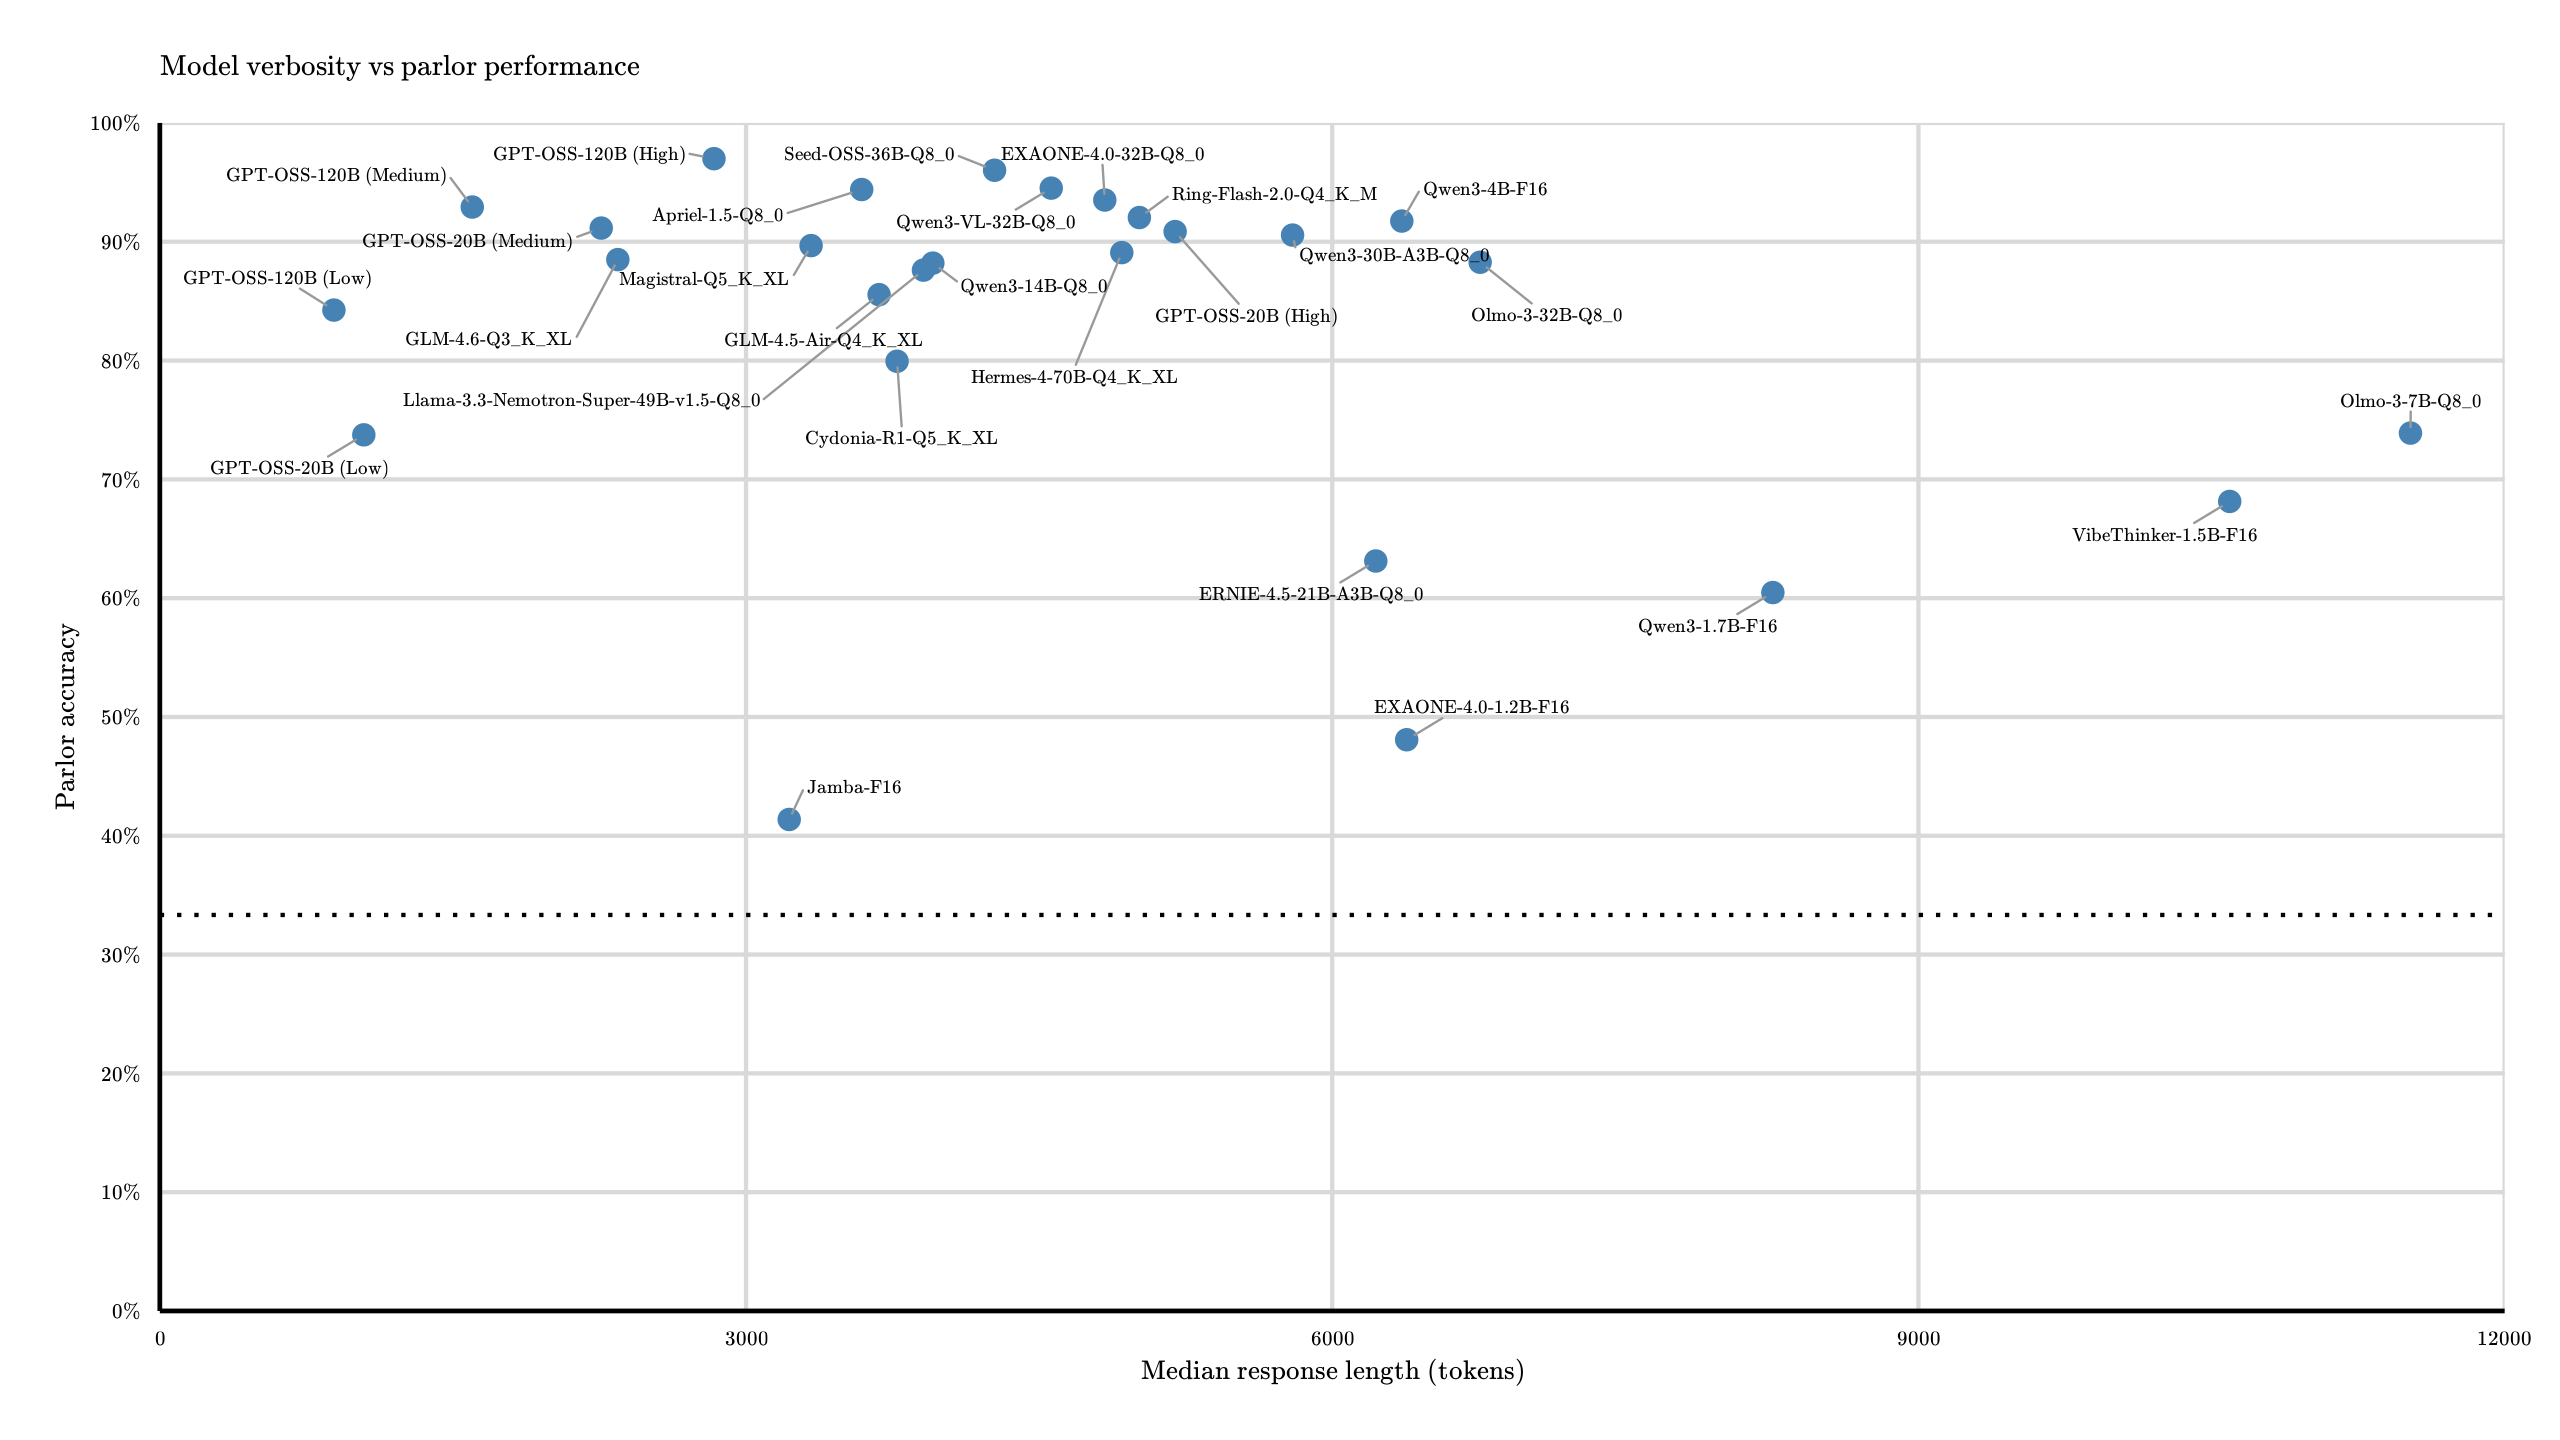
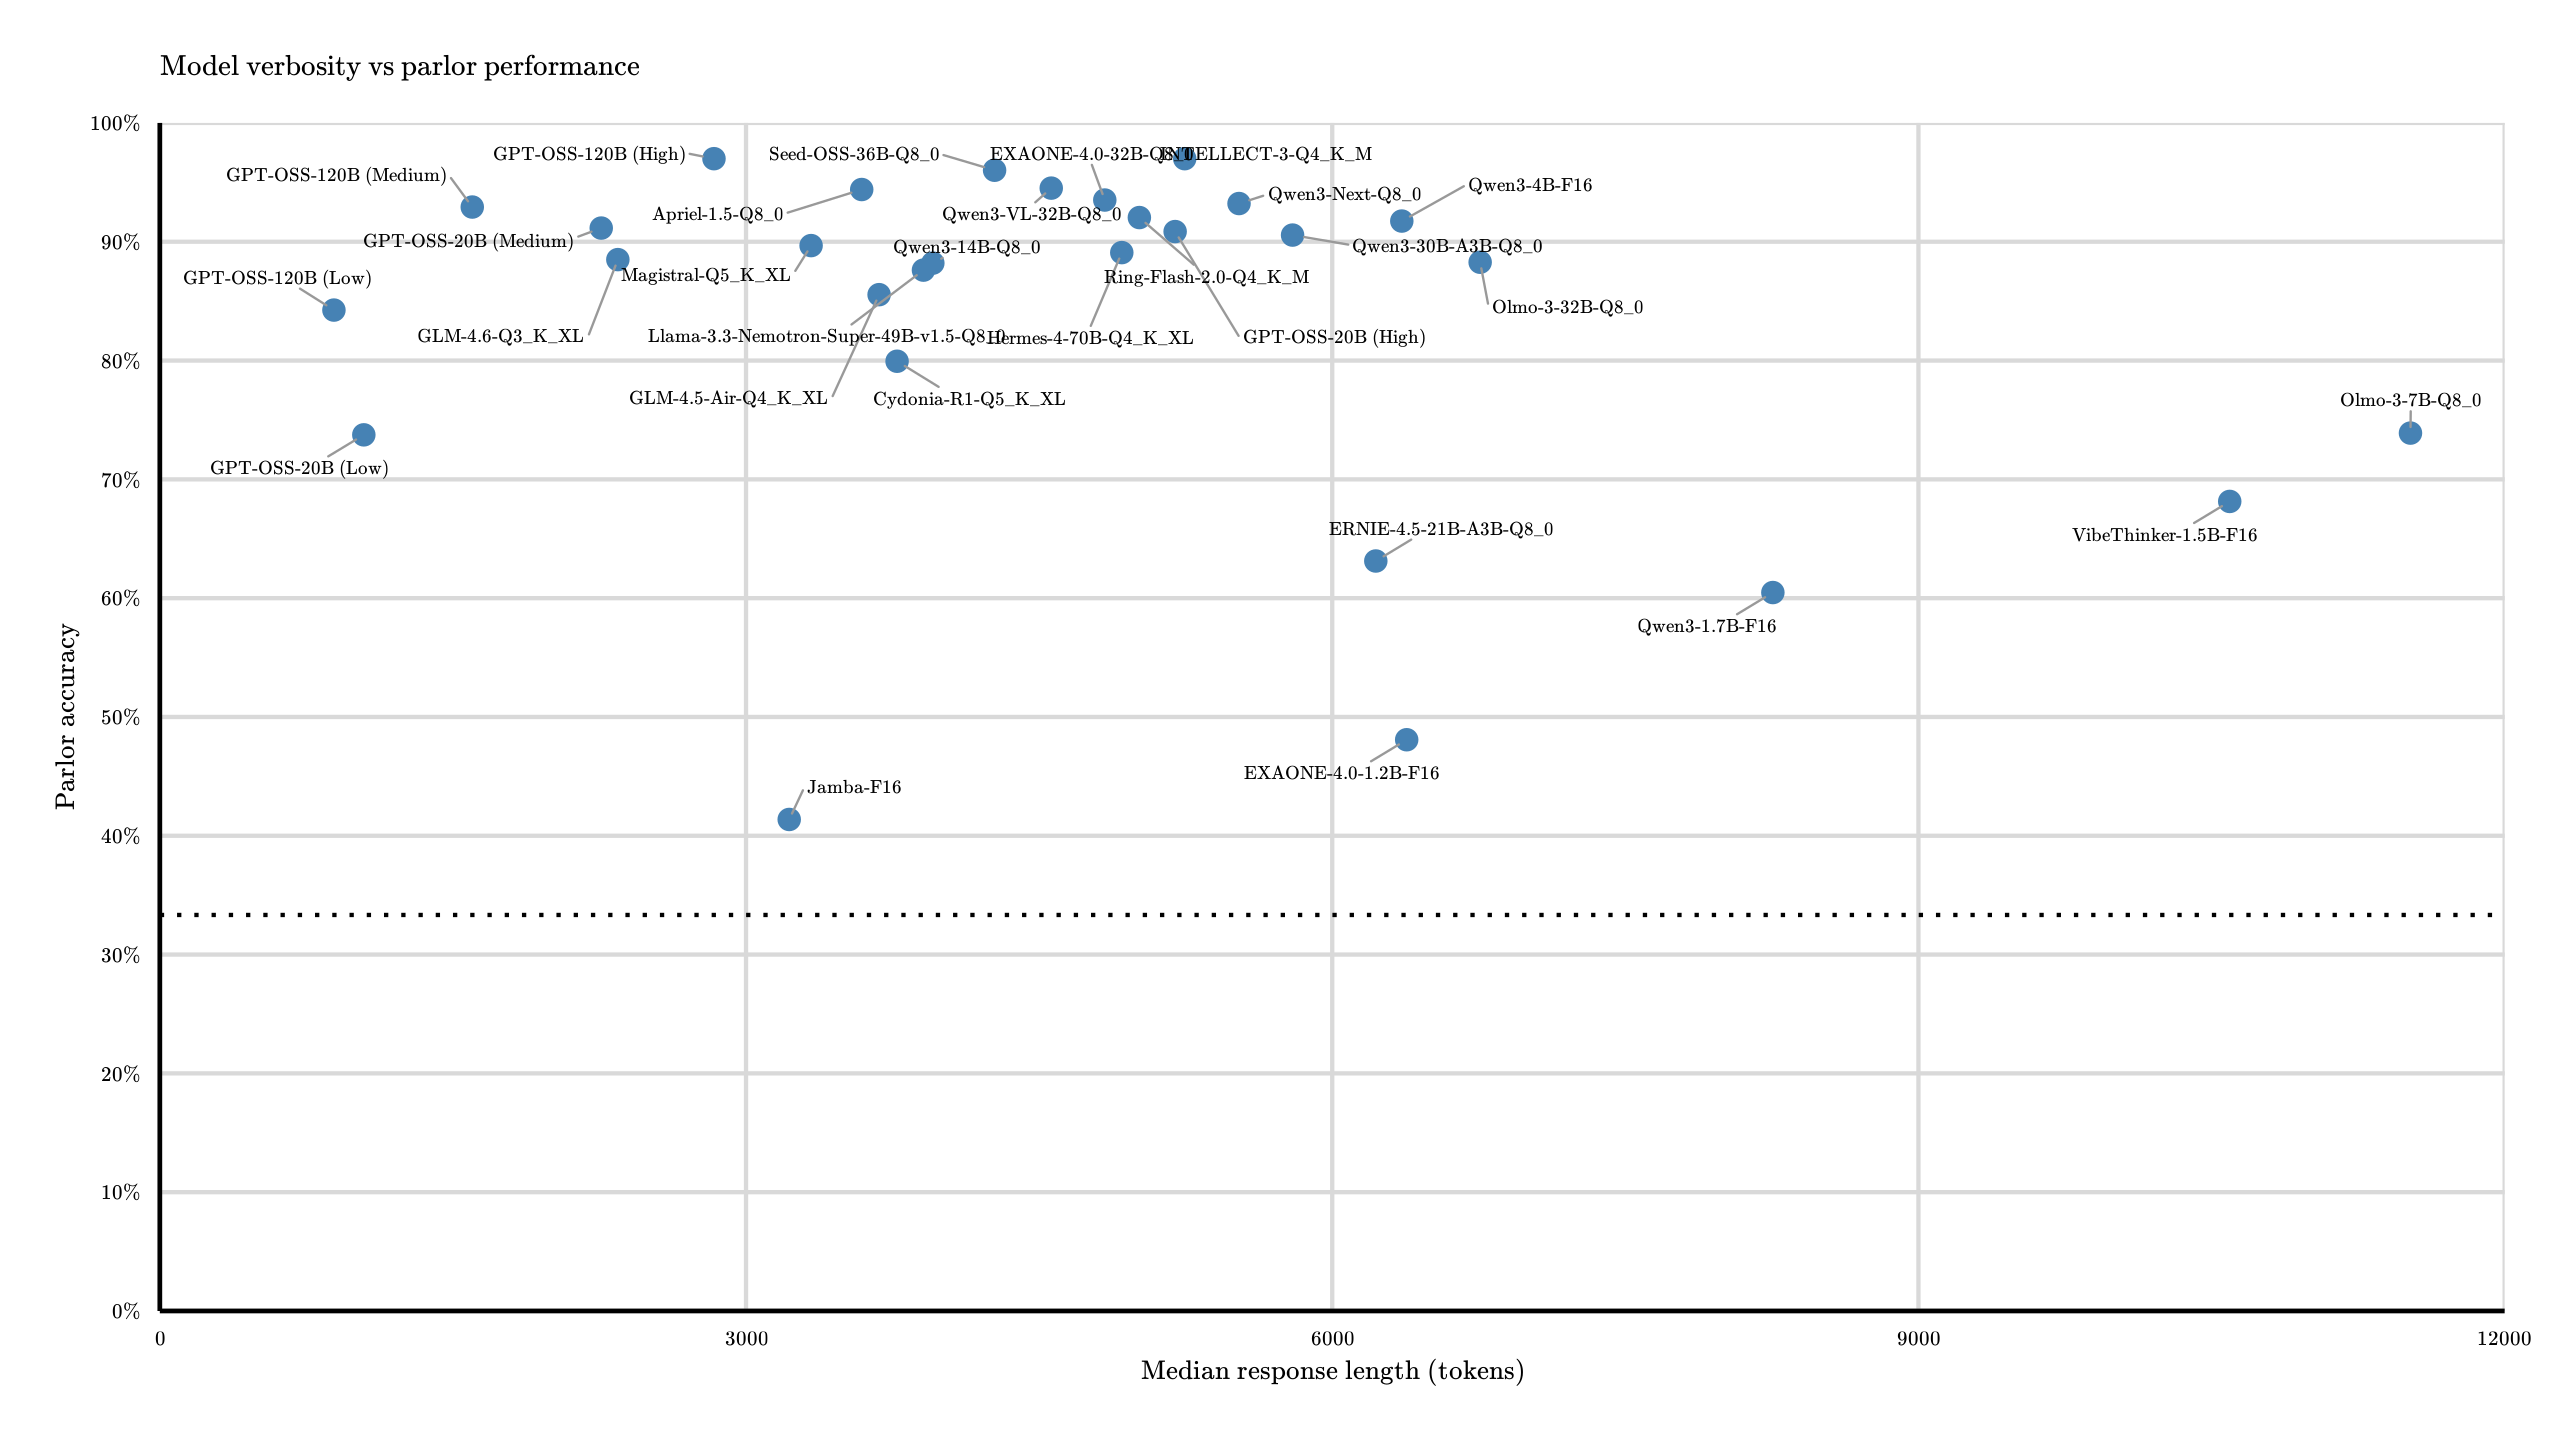
Parlor: Qwen3-Next, INTELLECT-3

diff --git a/pages/parlor-reasoning.html b/pages/parlor-reasoning.html
@@ -44,7 +44,7 @@
         <div class="article-container">
             <header class="article-header">
                 <h1>Reasoning LLMs vs the Parlor Puzzle</h1>
-                <div class="meta">By BigStupidJellyfish | 2025-November-02 | Updated 2025-November-19</div>
+                <div class="meta">By BigStupidJellyfish | 2025-November-02 | Updated 2025-November-29</div>
             </header>
 <div class="article-content">
 
@@ -293,6 +293,14 @@
       <td>6085/4923 tokens</td>
     </tr>
 	<tr>
+      <td><a href="https://huggingface.co/PrimeIntellect/INTELLECT-3">INTELLECT-3</a></td>
+	  <td>106B</td>
+	  <td>Q4_K_M</td>
+      <td>113*5</td>
+      <td>97.0%</td> <!-- 548/565 -->
+      <td>6357/5245 tokens</td>
+    </tr>
+	<tr>
       <td><a href="https://huggingface.co/nvidia/Llama-3_3-Nemotron-Super-49B-v1_5">Llama-3.3-Nemotron-Super-49B-v1.5</a></td>
 	  <td>49B</td>
 	  <td>Q8_0</td>
@@ -379,6 +387,14 @@
       <td>113*5</td>
 	  <td>94.5%</td> <!-- 534/565 -->
       <td>5762/4562 tokens</td>
+    </tr>
+	<tr>
+      <td><a href="https://huggingface.co/Qwen/Qwen3-Next-80B-A3B-Thinking">Qwen3-Next-80B-A3B</a></td>
+	  <td>80B</td>
+	  <td>Q8_0</td>
+      <td>113*3</td>
+	  <td>93.2%</td> <!-- 316/339 -->
+      <td>6781/5523 tokens</td>
     </tr>
 	<tr>
       <td><a href="https://huggingface.co/inclusionAI/Ring-flash-2.0">Ring-Flash-2.0</a></td>
@@ -688,6 +704,17 @@ Batch 10: 35839
 Batch 11: 74074 // 377112
 Batch final 3: 43317
 -->
+<h3>INTELLECT-3</h3>
+<p>
+	This is a modification of GLM-4.5-Air, apparently oriented towards math/coding/reasoning.
+	As far as this test is concerned, they were absolutely successful: GLM Air's disappointing 85% was improved to 97%, making it the highest scoring model configuration tested (tying GPT-OSS-120B at high effort).
+</p>
+<p>
+	Its reasoning length is a bit longer than GPT-OSS.
+</p>
+<p>
+	I may test this model more in other areas in the future, but cannot immediately comment on if any other areas have suffered as a result of this training.
+</p>
 <!-- <h3>Magistral</h3>
 <p>
 	&dagger;: This model was set to use <code>&lt;think&gt;</code> tags for this test, as it seemed to close them more consistently.
@@ -735,13 +762,12 @@ The statement matching this statement is on a completely true box."
 <p>
 	Its score on my non-thinking/fact-based benchmark was about typical for its size.
 </p>
-<h3>Qwen3-1.7B</h3>
+<h3>Qwen3 models</h3>
 <p>
-	I recommend using at least slightly larger models than this.
+	1.7B: I recommend using at least slightly larger models than this.
 </p>
-<h3>Qwen3-4B</h3>
 <p>
-	This model was small and promising enough to test a range of its quantizations, which may be easier to review visually:
+	4B: This model was small and promising enough to test a range of its quantizations, which may be easier to review visually:
 </p>
 <center><div class="figure">
 	<img src="images/parlor-reasoning/qwen_lines.png" width="100%"/>
@@ -777,7 +803,11 @@ The statement matching this statement is on a completely true box."
 	It made the thinking shorter (about 1.3k tokens/response) at the cost of all accuracy.
 	Bad implementations aside, I'm quite doubtful of distills in general: LLM output tends to be rather low quality (making it bad training data), and if there was some easy extra training/modifications you could do to make a model smarter, its creators probably would have figured that out and done it already.
 </p>
-
+<p>
+	Qwen3-Next: my impressions so far are that GLM-4.5-Air has a bit of an edge for instruct/general capabilities, and GPT-OSS-120B has a bit of an edge for reasoning.
+	That said, it's relatively competitive with both despite the size disadvantage.
+	It also has a bit of an edge on its knowledge cutoff, which can be very nice.
+</p>
 <span class="anchor" id="conclusion"></span>
 <h2>Conclusion and notes<sup><small><a href="#conclusion">&#35;</a></small></sup></h2>
 <p>
